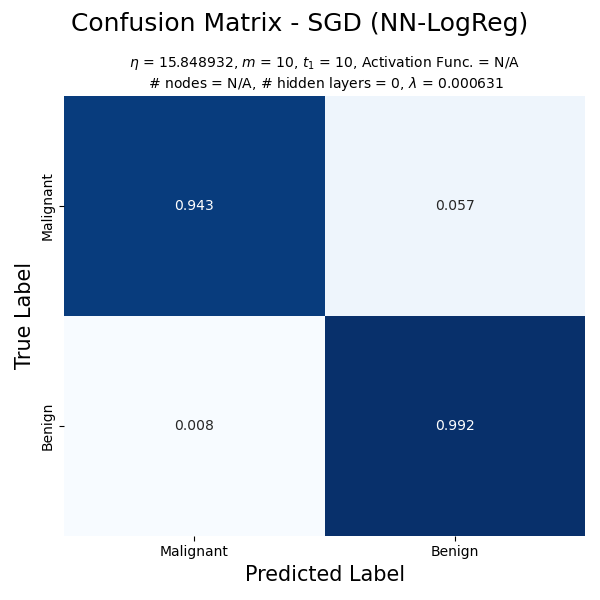
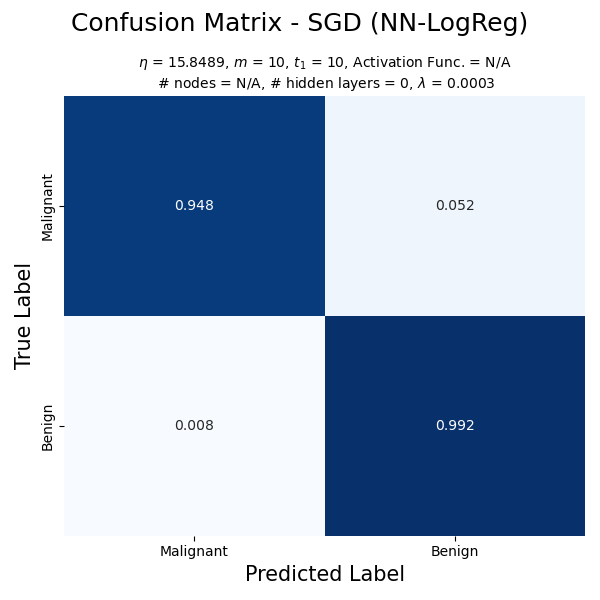
fixed digits after comma in confusion matrix subtitle

Changed region(s): [[0.21, 0.09, 0.87, 0.15], [0.33, 0.33, 0.36, 0.36]]

diff --git a/task_e.py b/task_e.py
@@ -1,4 +1,5 @@
 import numpy as np
+import matplotlib.pyplot as plt
 from sklearn.datasets import load_breast_cancer
 from sklearn.metrics import log_loss, confusion_matrix, accuracy_score
 from sklearn.model_selection import  train_test_split 
@@ -130,9 +131,9 @@ def plot_confusion_matrix(y, y_pred, method_name, eta, m, lmd, t1=10, act_func_n
     
     # Smaller subtitle
     if (logreg_plot == True) and (no_subtitle == False):
-        ax.set_title(f"$\\eta$ = {eta}, $m$ = {m}, $\\lambda$ = {lmd}, $t_1$ = {t1}", fontsize=lablesize - 5 )
+        ax.set_title(f"$\\eta$ = {eta:.4f}, $m$ = {m}, $\\lambda$ = {lmd:.4f}, $t_1$ = {t1}", fontsize=lablesize - 5 )
     if (logreg_plot == False) and (no_subtitle == False):
-        ax.set_title(f"$\\eta$ = {eta}, $m$ = {m}, $t_1$ = {t1}, Activation Func. = {act_func_name} \n # nodes = {num_nodes}, # hidden layers = {hidden_layers}, $\\lambda$ = {lmd}", fontsize=lablesize - 5 )#, loc='center', pad=20)
+        ax.set_title(f"$\\eta$ = {eta:.4f}, $m$ = {m}, $t_1$ = {t1}, Activation Func. = {act_func_name} \n # nodes = {num_nodes}, # hidden layers = {hidden_layers}, $\\lambda$ = {lmd:.4f}", fontsize=lablesize - 5 )#, loc='center', pad=20)
     
     ax.set_xlabel("Predicted Label", fontsize=lablesize)
     ax.set_ylabel("True Label", fontsize=lablesize)
@@ -276,9 +277,9 @@ if __name__ == "__main__":
     iNN_max, jNN_max = plot_heatmap(accuracy_listNN.T, lmbd_vals, eta_vals, title='Stochastic GD (NN-LR)', vmin=0.8, saveplot=True, test_lmb=True)
     
     
-    accuracyNN = MLP.fit(X, y, n_batches = 10, n_epochs = 100, eta = 15.848932, t1=10, lmb = 0.000631, delta_mom = 0, method = 'SGD', scale_bool = True, tol = 1e-17)
+    accuracyNN = MLP.fit(X, y, n_batches = 10, n_epochs = 100, eta = 15.848932, t1=10, lmb = 0.000316, delta_mom = 0, method = 'SGD', scale_bool = True, tol = 1e-17)
     y_predNN = accuracyNN[-1]
-    print("Neural Network without hidden layers: eta=15.848932, lambda = 0.000631, t1=10, n_epochs=100, m=10")
+    print("Neural Network without hidden layers: eta=15.848932, lambda = 0.000316, t1=10, n_epochs=100, m=10")
     print(f"Test set accuracy for Neural Network without hidden layers = {accuracy_score(y, y_predNN):.3f}")
     print(f"log_loss = {log_loss(y, y_predNN):.3f}")
-    plot_confusion_matrix(y, y_predNN, 'SGD (NN-LogReg)', eta=15.848932, m=10, lmd=0.000631, hidden_layers=0, act_func_name='N/A', num_nodes='N/A')
+    plot_confusion_matrix(y, y_predNN, 'SGD (NN-LogReg)', eta=15.848932, m=10, lmd=0.000316, hidden_layers=0, act_func_name='N/A', num_nodes='N/A')
